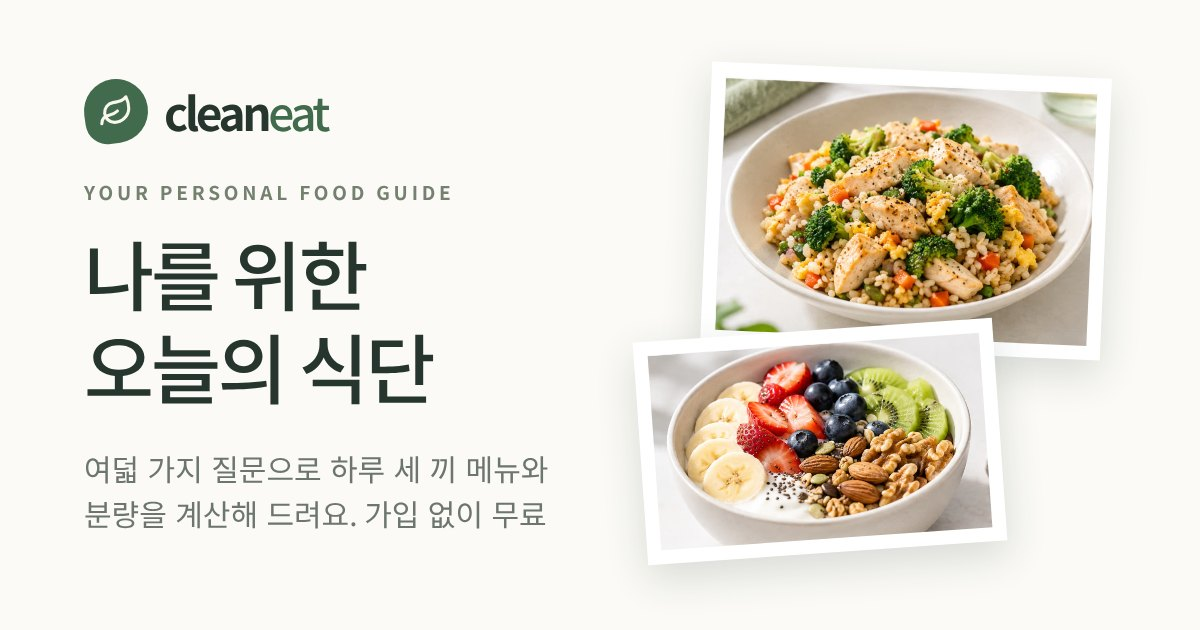
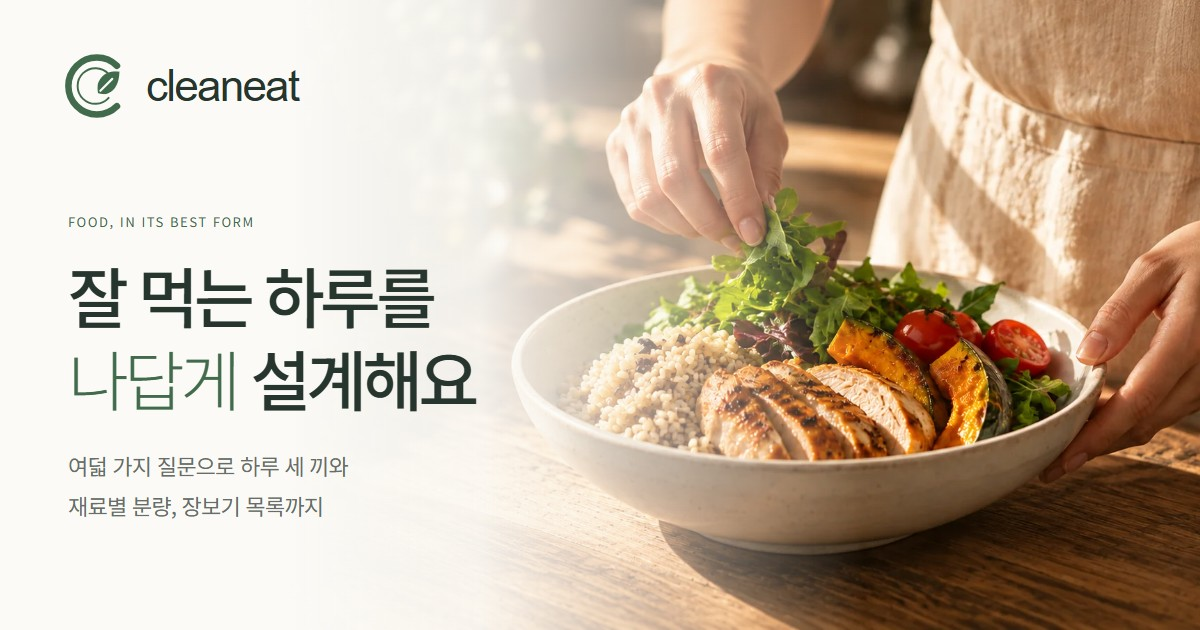
hero

diff --git a/css/style.css b/css/style.css
@@ -12,9 +12,9 @@ body{margin:0;background:var(--bg);color:var(--fg);font-family:"Inter","Noto San
 header{position:fixed;inset:0 0 auto;z-index:60;pointer-events:none;background:transparent;border-bottom:1px solid transparent}
 header[data-surface="solid"]{background:#fff;border-bottom-color:#e9e8df;--fg:#26352d;--mut:#676d68;--g:#416b4c;--gd:#304e38;--gt:#fffdf6;--card:#fffefa;--soft:#eef0e8;--line:#e9e8df;--lab:#636e5f}
 header .w{position:relative;pointer-events:auto;width:100%;max-width:none;display:flex;justify-content:flex-start;align-items:center;gap:56px;height:96px;margin:0 auto;padding:0 var(--hero-gutter)}
-header .logo{font-size:28px}.logo .mk{width:42px;height:42px}.logo .mk svg{width:22px;height:22px}header .nv .lk{font-size:1.12rem;color:var(--fg)}
+header .logo{font-size:28px}.logo-symbol{display:block;flex:none;width:52px;height:52px;color:var(--g)}header .nv .lk{font-size:1.12rem;color:var(--fg)}
 html:is([data-v="quiz"],[data-v="res"]) main{padding-top:var(--header-height,96px)}
-.logo{display:flex;align-items:center;gap:10px;background:none;border:0;padding:0;color:var(--fg);font-family:inherit;font-weight:650;font-size:21px;line-height:1;letter-spacing:-.075em;cursor:pointer}.logo b{color:var(--g);font-weight:450}
+.logo{display:flex;align-items:center;gap:10px;background:none;border:0;padding:0;color:var(--fg);font-family:Arial,Helvetica,sans-serif;font-weight:500;font-size:28px;line-height:1;letter-spacing:-.04em;cursor:pointer}
 .nv{display:flex;align-items:center;gap:36px}.nv .lk{background:none;border:0;padding:6px 0;font:inherit;font-size:.9rem;color:var(--mut);cursor:pointer}.nv .lk:hover{color:var(--fg)}.nv .lk{white-space:nowrap}.nv .sp{display:none}
 h1,h2,h3{line-height:1.3;letter-spacing:-.06em;margin:0}
 h1{font-size:clamp(44px,5.3vw,80px);font-weight:700;letter-spacing:-.07em;line-height:1.16}
@@ -51,7 +51,7 @@ p{margin:0}.mut{color:var(--mut)}
  .hero p.lead{font-size:.88rem;line-height:1.95;margin:24px 0 28px}
  .hero .btn{font-size:.94rem;padding:14px 22px}
 }
-@media(max-width:480px){header .w{gap:20px}.logo{font-size:19px;gap:8px}.mk{width:32px;height:32px}.nv{gap:18px}.nv .lk{font-size:.76rem}}
+@media(max-width:480px){header .w{gap:20px}.logo{font-size:19px;gap:8px}.nv{gap:18px}.nv .lk{font-size:.76rem}}
 /* Why CleanEat? 원칙 팝업: 마우스·키보드·터치로 같은 내용을 표시 */
 .why-nav{position:relative}#why-button{display:inline-flex;align-items:center;gap:7px}.why-chevron{display:block;flex:none;width:16px;height:16px;transition:transform .15s}.why-nav [aria-expanded="true"] .why-chevron{transform:rotate(180deg)}
 .rules-popover{position:fixed;pointer-events:auto;left:50%;top:var(--rules-top,108px);transform:translateX(-50%);width:min(1120px,calc(100% - 48px));max-height:calc(100svh - var(--rules-top,108px) - 24px);overflow-y:auto;overscroll-behavior:contain;background:var(--card);color:var(--fg);padding:32px 36px;border:1px solid var(--line);border-radius:16px;box-shadow:0 16px 48px rgba(24,42,30,.13);z-index:70}
@@ -68,7 +68,7 @@ p{margin:0}.mut{color:var(--mut)}
 .how-number{position:absolute;top:12px;left:12px;width:30px;height:30px;display:grid;place-items:center;border-radius:7px;background:#757575;color:#fff;font-family:Arial,sans-serif;font-size:.82rem;font-weight:400;line-height:1}
 @media(max-width:1000px){.how-steps{grid-template-columns:repeat(2,minmax(0,1fr));gap:48px 32px}}
 @media(max-width:760px){.rules-columns{grid-template-columns:1fr;row-gap:26px}.rules-popover .ing{padding:24px 0 0;border-left:0;border-top:1px solid var(--line)}.rules-popover{padding:28px}.rules-heading{margin-bottom:24px}}
-@media(max-width:560px){header .w{height:auto;min-height:108px;flex-wrap:wrap;column-gap:16px;row-gap:12px;padding:16px var(--hero-gutter)}header .logo{font-size:24px}.logo .mk{width:36px;height:36px}header .w .nv{gap:20px}header .nv .lk{font-size:.88rem}.hero{padding-top:168px}.rules-popover{width:calc(100% - 24px);padding:24px 22px;max-height:calc(100svh - var(--rules-top,120px) - 12px)}.rules-heading{gap:12px}.rules-popover h2{font-size:1.4rem}.rules-popover .ing{gap:24px 18px}.sec.how{padding-top:112px}.how-heading{margin-bottom:42px}.how-heading>p{font-size:.8rem;line-height:1.7}.how-steps{grid-template-columns:1fr;gap:48px}.how-visual{aspect-ratio:4/5}.how-steps h3{margin-top:22px}}
+@media(max-width:560px){header .w{height:auto;min-height:108px;flex-wrap:wrap;column-gap:16px;row-gap:12px;padding:16px var(--hero-gutter)}header .logo{font-size:24px}.logo-symbol{width:44px;height:44px}header .w .nv{gap:20px}header .nv .lk{font-size:.88rem}.hero{padding-top:168px}.rules-popover{width:calc(100% - 24px);padding:24px 22px;max-height:calc(100svh - var(--rules-top,120px) - 12px)}.rules-heading{gap:12px}.rules-popover h2{font-size:1.4rem}.rules-popover .ing{gap:24px 18px}.sec.how{padding-top:112px}.how-heading{margin-bottom:42px}.how-heading>p{font-size:.8rem;line-height:1.7}.how-steps{grid-template-columns:1fr;gap:48px}.how-visual{aspect-ratio:4/5}.how-steps h3{margin-top:22px}}
 @media(prefers-reduced-motion:reduce){.why-chevron{transition:none}}
 .eb{display:flex;align-items:center;gap:12px;font-size:.72rem;font-weight:700;letter-spacing:.12em;color:var(--lab);margin:0 0 34px}.eb:before{content:"";width:26px;height:1px;background:#93a287}
 [id]{scroll-margin-top:24px}
@@ -101,6 +101,7 @@ details ul{margin:10px 0 0;padding-left:1.2em;color:var(--mut)}details li+li{mar
 .sumt span{display:block;font-size:.68rem;color:var(--mut)}.sumt b{display:block;font-size:.86rem;font-weight:650;margin-top:4px;line-height:1.5}.sumt small{display:block;font-size:.74rem;color:var(--mut);margin-top:2px}.sumt small.mac{display:flex;flex-wrap:wrap;gap:1px 10px}.mac span{white-space:nowrap}.mac i{font-style:normal;font-weight:600;color:var(--fg)}
 @media(max-width:1000px){.ing{grid-template-columns:1fr 1fr}.ing>div:nth-child(3){border-left:0}.ing>div:nth-child(n+3){border-top:1px solid var(--line)}.faq{grid-template-columns:1fr}.faq>div+div details:first-of-type{border-top:0}.faq>div:first-child details:last-of-type{border-bottom:0}}
 .cta{background:var(--soft);border-radius:12px;padding:40px;display:flex;justify-content:space-between;align-items:center;gap:24px;flex-wrap:wrap;margin:8px 0 72px}
+.footer-inner{display:flex;align-items:center;justify-content:space-between;gap:24px;flex-wrap:wrap}.footer-logo{display:inline-flex;align-items:center;gap:8px;padding:0;border:0;background:none;color:var(--fg);font:500 22px/1 Arial,Helvetica,sans-serif;letter-spacing:-.04em;cursor:pointer}.footer-logo .logo-symbol{width:36px;height:36px}
 footer{border-top:1px solid var(--line);padding:28px 0 40px;font-size:.88rem;color:var(--mut)}
 #quiz,#res{padding:48px 24px 72px;max-width:1328px}
 .top{display:flex;justify-content:space-between;align-items:baseline}.top .lab{margin:0;letter-spacing:.12em;font-weight:600;color:var(--lab);font-size:.72rem}.cnt{font-weight:650;color:var(--g);font-size:.95rem;letter-spacing:.02em}
@@ -139,7 +140,7 @@ input[type=number],select{width:100%;font:inherit;color:var(--fg);background:var
 .note{font-size:.92rem;color:var(--mut);margin:12px 0}
 .safe{border-left:3px solid var(--g);padding:10px 16px;background:var(--soft);font-size:.95rem;margin:24px 0}
 [hidden]{display:none!important}
-h3{font-weight:620}.mk{display:inline-grid;place-items:center;width:34px;height:34px;border-radius:50% 50% 50% 12px;background:var(--g);color:#f8f8ec;transform:rotate(-8deg)}.mk svg{transform:rotate(8deg)}
+h3{font-weight:620}
 @media(max-width:760px){.db{display:none}.nv{gap:14px}.nv .lk{font-size:.76rem}.nv .lp{display:none}.nv .sp{display:inline}.qg{grid-template-columns:1fr;gap:24px}.jn{display:flex;justify-content:space-between}.jn{flex-direction:row;height:auto!important}.jn li{flex:none;min-height:0}.jn li:after{display:none!important}.jn li span{display:none}#quiz,#res{padding-top:32px}}
 @media(max-width:760px){.sec{padding-top:72px}.row{grid-template-columns:44px 1fr}.row .ri{display:none}.ing{grid-template-columns:1fr}.ing>div{border-left:0!important}.ing>div+div{border-top:1px solid var(--line)}.two{padding-bottom:72px}.cta{padding:28px}.g2{grid-template-columns:1fr}
  .sumt{grid-template-columns:1fr 1fr;padding:0}.sumt>div{padding:14px 18px;border-left:0;border-top:1px solid var(--line)}.sumt>div:first-child{grid-column:1/-1;border-top:0;padding-left:18px}}
@@ -196,7 +197,7 @@ h3{font-weight:620}.mk{display:inline-grid;place-items:center;width:34px;height:
 @media(max-width:760px){.cards{grid-template-columns:1fr}.card{min-height:0}.foot .bs{width:100%}.foot .bs .btn{flex:1}}
 /* 모바일: 질문 화면의 이전·다음 버튼을 화면 아래에 고정(단계마다 위치가 달라지지 않게) */
 @media(max-width:760px){#quiz{padding-bottom:104px}.q .err{scroll-margin-bottom:96px}.q .nav{position:fixed;left:0;right:0;bottom:0;z-index:20;margin:0;padding:12px 24px calc(12px + env(safe-area-inset-bottom));background:var(--bg);box-shadow:0 -1px 0 var(--line)}}
-@media(max-width:350px){.nv{gap:10px}.nv .lk{font-size:.72rem}.logo{font-size:18px;gap:8px}.mk{width:32px;height:32px}}
+@media(max-width:350px){.nv{gap:10px}.nv .lk{font-size:.72rem}.logo{font-size:18px;gap:8px}}
 
 /* 인쇄: 사진 대신 메뉴·분량을 모아 출력하고 장보기는 다음 장에 표시 */
 @page{size:A4;margin:12mm}

diff --git a/index.html b/index.html
@@ -3,19 +3,30 @@
 <head>
 <meta charset="utf-8">
 <meta name="viewport" content="width=device-width, initial-scale=1, viewport-fit=cover">
-<title>Clean Eat — 나를 위한 오늘의 식단</title>
+<link rel="shortcut icon" href="favicon.ico" type="image/x-icon">
+<link rel="icon" type="image/png" sizes="16x16" href="images/brand/favicon-16.png">
+<link rel="icon" type="image/png" sizes="32x32" href="images/brand/favicon-32.png">
+<link rel="icon" type="image/svg+xml" sizes="any" href="images/brand/favicon-plate-c.svg">
+<link rel="apple-touch-icon" sizes="180x180" href="images/brand/apple-touch-icon.png">
+<link rel="mask-icon" href="images/brand/safari-pinned-tab.svg" color="#416b4c">
+<link rel="manifest" href="site.webmanifest">
+<meta name="theme-color" content="#fbfaf6">
+<meta name="apple-mobile-web-app-title" content="CleanEat">
+<title>CleanEat — 나를 위한 오늘의 식단</title>
 <meta name="description" content="성별·나이·키·몸무게와 목표, 요리 수준, 예산을 입력하면 통곡물·신선식품 중심의 하루 세 끼 메뉴와 분량을 계산해 보여줍니다.">
 <meta property="og:type" content="website">
 <meta property="og:locale" content="ko_KR">
-<meta property="og:site_name" content="Clean Eat">
-<meta property="og:title" content="Clean Eat — 나를 위한 오늘의 식단">
+<meta property="og:site_name" content="CleanEat">
+<meta property="og:title" content="CleanEat — 나를 위한 오늘의 식단">
 <meta property="og:description" content="여덟 가지 질문으로 통곡물·신선식품 중심의 하루 세 끼 메뉴와 분량을 계산해 드려요. 가입 없이 무료.">
 <meta property="og:url" content="https://gaon1102.github.io/cleaneat/">
-<meta property="og:image" content="https://gaon1102.github.io/cleaneat/images/og.jpg">
+<meta property="og:image" content="https://gaon1102.github.io/cleaneat/images/og-plate-c.jpg">
 <meta property="og:image:width" content="1200">
 <meta property="og:image:height" content="630">
-<meta property="og:image:alt" content="Clean Eat — 닭가슴살 현미볶음과 과일 요거트 볼 사진">
+<meta property="og:image:alt" content="CleanEat 플레이트 C 로고와 나를 위한 오늘의 식단">
 <meta name="twitter:card" content="summary_large_image">
+<meta name="twitter:image" content="https://gaon1102.github.io/cleaneat/images/og-plate-c.jpg">
+<meta name="twitter:image:alt" content="CleanEat 플레이트 C 로고와 나를 위한 오늘의 식단">
 <link rel="preconnect" href="https://fonts.googleapis.com">
 <link rel="preconnect" href="https://fonts.gstatic.com" crossorigin>
 <link href="https://fonts.googleapis.com/css2?family=Noto+Sans+KR:wght@100..900&display=swap" rel="stylesheet">
@@ -23,7 +34,7 @@
 <link rel="stylesheet" href="css/style.css">
 </head>
 <body>
-<header><div class="w"><button class="logo" id="logo" aria-label="처음 화면으로"><i class="mk"><svg width="18" height="18" viewBox="0 0 24 24" fill="none" stroke="currentColor" stroke-width="2.2" stroke-linecap="round" stroke-linejoin="round" aria-hidden="true"><path d="M11 20A7 7 0 0 1 9.8 6.1C15.5 5 17 4.48 19 2c1 2 2 4.18 2 8 0 5.5-4.78 10-10 10Z"/><path d="M2 21c0-3 1.85-5.36 5.08-6C9.5 14.52 12 13 13 12"/></svg></i><span>clean<b>eat</b></span></button><nav class="nv" aria-label="주요 메뉴"><div class="why-nav"><button class="lk" type="button" id="why-button" aria-expanded="false" aria-controls="rules">Why CleanEat?<svg class="why-chevron" width="16" height="16" viewBox="0 0 24 24" fill="none" stroke="currentColor" stroke-width="1.8" stroke-linecap="round" stroke-linejoin="round" aria-hidden="true"><path d="m6 9 6 6 6-6"/></svg></button></div><button class="lk" type="button" data-to="example">식단 예시</button><button class="lk" type="button" data-to="faq">FAQs</button></nav></div>
+<header><div class="w"><button class="logo" id="logo" aria-label="처음 화면으로"><svg xmlns="http://www.w3.org/2000/svg" class="logo-symbol" width="52" height="52" viewBox="0 0 64 64" fill="none" aria-hidden="true"><path d="M48 15a24 24 0 1 0 0 34" fill="none" stroke="currentColor" stroke-width="5.5" stroke-linecap="round"/><path d="M41 22a15 15 0 1 0 0 20" fill="none" stroke="currentColor" stroke-width="1.6" stroke-linecap="round"/><path d="M32 38C29 26 39 18 50 20C50 33 42 42 32 38Z" fill="currentColor"/><path d="m34 36 10-10" fill="none" stroke="#fbfaf6" stroke-width="1.8" stroke-linecap="round"/></svg><span class="logo-wordmark">cleaneat</span></button><nav class="nv" aria-label="주요 메뉴"><div class="why-nav"><button class="lk" type="button" id="why-button" aria-expanded="false" aria-controls="rules">Why CleanEat?<svg class="why-chevron" width="16" height="16" viewBox="0 0 24 24" fill="none" stroke="currentColor" stroke-width="1.8" stroke-linecap="round" stroke-linejoin="round" aria-hidden="true"><path d="m6 9 6 6 6-6"/></svg></button></div><button class="lk" type="button" data-to="example">식단 예시</button><button class="lk" type="button" data-to="faq">FAQs</button></nav></div>
 <section class="rules-popover" id="rules" hidden tabindex="-1" aria-labelledby="rules-title">
   <div class="rules-heading"><h2 id="rules-title">덜어내고, <em>제대로</em> 채우기</h2><button class="rules-close" type="button" aria-label="원칙 닫기">닫기</button></div>
   <div class="rules-columns">
@@ -113,7 +124,7 @@
 <div class="w" id="res" hidden></div>
 <p id="meal-status" class="sr-only" role="status" aria-live="polite" aria-atomic="true"></p>
 </main>
-<footer><div class="w wide">© Clean Eat</div></footer>
+<footer><div class="w wide footer-inner"><button class="footer-logo" type="button" data-to="home" aria-label="CleanEat 처음 화면으로"><svg xmlns="http://www.w3.org/2000/svg" class="logo-symbol" width="36" height="36" viewBox="0 0 64 64" fill="none" aria-hidden="true"><path d="M48 15a24 24 0 1 0 0 34" fill="none" stroke="currentColor" stroke-width="5.5" stroke-linecap="round"/><path d="M41 22a15 15 0 1 0 0 20" fill="none" stroke="currentColor" stroke-width="1.6" stroke-linecap="round"/><path d="M32 38C29 26 39 18 50 20C50 33 42 42 32 38Z" fill="currentColor"/><path d="m34 36 10-10" fill="none" stroke="#fbfaf6" stroke-width="1.8" stroke-linecap="round"/></svg><span>cleaneat</span></button><span>© CleanEat</span></div></footer>
 
 <script src="js/data.js"></script>
 <script src="js/engine.js"></script>

diff --git a/AGENTS.md b/AGENTS.md
@@ -1,7 +1,7 @@
 # CleanEat — 작업 안내 (Codex·Claude 공통)
 
 이 문서는 저장소 최상위에 둔다. 작업을 시작하기 전에 읽고, 끝나면 맨 아래 "작업 기록"에 한 줄 추가한다.
-마지막 갱신: 2026-10-28 (투명/흰색 고정 헤더·글자 확대·내용에 맞는 원칙 팝업·로고 후보 3개)
+마지막 갱신: 2026-10-28 (플레이트 C 로고 확정·사이트/즐겨찾기/홈 화면/공유 이미지 통일)
 
 ## 0. 가장 먼저
 
@@ -39,6 +39,7 @@
 | `js/data.js` | `CONFIG`(계산 기준값), `EXAMPLE`, `QUESTIONS`, `VEG_FRUIT`, `ING`(재료 124종, 영양·나트륨·가격), `MENUS`(262개) |
 | `js/engine.js` | 계산 엔진 + 결과 HTML 조각(화면에 의존하지 않음). 메뉴 선택(벌점 방식), 안내 문구(`notesOf`), 장보기 목록(`groceryBoxHTML`) |
 | `js/main.js` | 화면 전환·질문 진행·결과 표시·바꾸기 버튼·장보기 체크, 방문 통계(`GC_CODE`, `ev()`) |
+| `site.webmanifest`, `favicon.ico` | 플레이트 C 브라우저·즐겨찾기·홈 화면 아이콘 안내와 다중 크기 ICO |
 | `sim.js` | 무작위 가상 사용자 시뮬레이션. `node sim.js 3000` |
 | `images/` | `home-hero.webp`(현재 홈 히어로 배경, 1738×905, 약 140KB), `home-slide-1.webp`(이전 슬라이드 사진, 파일 보관), `og.jpg`(공유 미리보기 1200×630), **`menus/<메뉴 id>.webp`(메뉴 사진)** |
 | `data/ING_MATCHING.csv`, `data/PRICE_SOURCES.csv` | 재료 124종의 식약처·USDA 매칭 결과, 가격 출처(사용자가 저장소에 올리면 이 경로를 쓴다) |
@@ -60,6 +61,7 @@
 ## 4. 결정된 사항 (바꾸지 말 것, 다시 제안하지 말 것)
 
 - 글자 버튼 유지. 최신 사용자 지시로 홈 본문 순서는 히어로 → How it works → 식단 예시 → FAQ로 변경하며, How it works는 보통 굵기 산세리프와 4:5 세로 사진·회색 바탕 흰 번호를 사용하고 내부 카드 장식은 넣지 않는다.  기존 원칙은 헤더 팝업에서만 표시한다. **2026-10-28 최신 사용자 지시: 로고와 히어로 문구는 같은 왼쪽 선(데스크톱 가로폭의 약 6%, 최대 120px)에 맞춘다. 로고 옆에는 Why CleanEat?(원칙 팝업), 식단 예시→example, FAQs→faq를 표시한다. 상단 로고·메뉴 바는 고정하고 히어로 사진 위에서는 투명, 사진을 완전히 지나면 흰색으로 표시한다. 모이는 애니메이션은 쓰지 않는다. 원칙 팝업은 내용에 맞는 높이와 최대 1120px 너비로 제목 위·규칙 왼쪽·재료 오른쪽에 표시하며 영어 장식 라벨과 아이콘은 넣지 않는다. 마우스 호버·클릭·키보드·터치로 열고 바깥 이동/클릭·닫기·Esc로 닫는다. 히어로는 전체 폭 사진과 아이보리 그라데이션, 왼쪽 문구·기존 초록 사각 버튼을 사용하며 하단에 하루 세 끼·재료별 분량·장보기 목록을 안내한다.** **선택지는 모든 단계 5개 유지.** STEP 04에 '없음'·채식·비건 버튼 없음. '응답 수정'은 STEP 01, BMI 차단 화면의 '답변 수정'은 STEP 02로 이동.
+- **로고 확정(2026-10-28)**: 사용자가 1번 플레이트 C를 선택했다. 열린 접시 모양 C와 잎, 소문자 cleaneat 워드마크를 사용한다. 헤더·푸터는 테마에 맞는 인라인 SVG, 배포 자산은 images/brand/의 cleaneat-logo.svg·cleaneat-symbol.svg. 즐겨찾기/탭은 favicon.ico·SVG·16/32px PNG, 홈 화면은 180/192/512px 아이콘과 site.webmanifest를 사용한다. 공유 이미지는 og-plate-c.jpg이며 기존 og.jpg도 같은 새 이미지로 유지한다.
 - **입력값 기억(localStorage)은 하지 않는다**(구현했다가 사용자 결정으로 롤백). 새로고침하면 입력이 사라지는 게 현재 동작이며 FAQ도 그렇게 안내한다. 재방문 편의·결과 바로 보기 같은 같은 종류의 기능을 다시 제안하지 않는다.
 - **가격 정밀화는 종료**. 다시 제안하지 않는다.
 - **밀·메밀·대두 알레르기 필터는 만들지 않는다**(메뉴의 양념 `sea`를 재료로 추적하지 않아 약속을 지킬 수 없고, 안전하다는 오해를 줄 수 있음). STEP 04 경고와 결과 맨 아래 면책 문단을 유지한다.
@@ -170,3 +172,5 @@
 - 2026-10-28 | Codex | 상단 로고·메뉴 바를 fixed로 유지하고 스크롤 64px 이후 가운데 둥근 바로 .42초 전환, 맨 위 복귀 시 확장. 반응형 너비·헤더 아래 앵커 여백·질문/결과 상단 간격·reduced-motion·인쇄 보완. 원칙 팝업을 변형되는 바와 분리해 화면 폭/높이를 채우고 제목 위·규칙 왼쪽·재료 오른쪽(모바일 세로)으로 재구성, OUR RULES·장식 아이콘 및 초기화 코드 삭제, 닫기 버튼 추가. index.html·css/style.css·js/main.js 수정. 14개 화면 조건, 고정/축소/중앙/복원, 큰 팝업 배치·키보드/터치/영역 밖 닫기·동작 줄이기·인쇄·8단계 식단 생성 통과, JS 오류 없음 | 커밋·Push 및 공개 배포는 사용자 진행
 
 - 2026-10-28 | Codex | 사용자 요청으로 모이는 메뉴 애니메이션·축소 코드 제거. 고정 헤더는 히어로 영역 안에서 투명, 사진을 지나거나 질문/결과 화면에서는 흰 배경·진녹색 글자, 크기/위치 고정. 로고 28px·메뉴 약 19px(모바일 24px/약15px)로 확대. 원칙 팝업 최대1120px·내용 높이, 제목/번호/얇은 선/재료의 2열 구성과 절제된 그림자로 정리하고 재료 영어 장식 라벨 삭제. index.html·css/style.css·js/main.js 수정. 14조건 헤더 경계·고정·무애니메이션, 팝업 마우스/키보드/터치·예시/FAQ·8단계 식단·인쇄 통과. 편집 가능한 SVG 로고 후보 3개(플레이트 C/세 끼의 리듬/CE 모노그램)는 출력물로 제시; 후보 선택 전 사이트 심벌은 기존 로고 유지 | 커밋·Push 및 공개 배포는 사용자 진행, 새 로고 후보 선택
+
+- 2026-10-28 | Codex | 사용자 선택 플레이트 C로 헤더·푸터 심벌/워드마크 교체, 브라우저 제목·공유 메타 통일. images/brand/에 로고/심벌 SVG, SVG 파비콘·Safari 마스크, 16/32/180/192/512px PNG 추가, 루트 다중 크기 favicon.ico·site.webmanifest 연결. 공유 이미지 og-plate-c.jpg 제작 및 기존 og.jpg 대체. index.html·css/style.css 수정. GitHub Pages 하위 경로를 재현한 HTTP에서 아이콘 7개 연결·매니페스트 이미지 크기·공유1200×630 로딩 확인, ICO 7해상도·작은 아이콘 색상 확인. 14조건 사이트 배치·메뉴/팝업/8단계 식단 생성·홈 복귀 통과, 인쇄 결과 2장 유지 및 새 워드마크 확인, JS 오류 없음 | 커밋·Push 및 공개 배포는 사용자 진행
